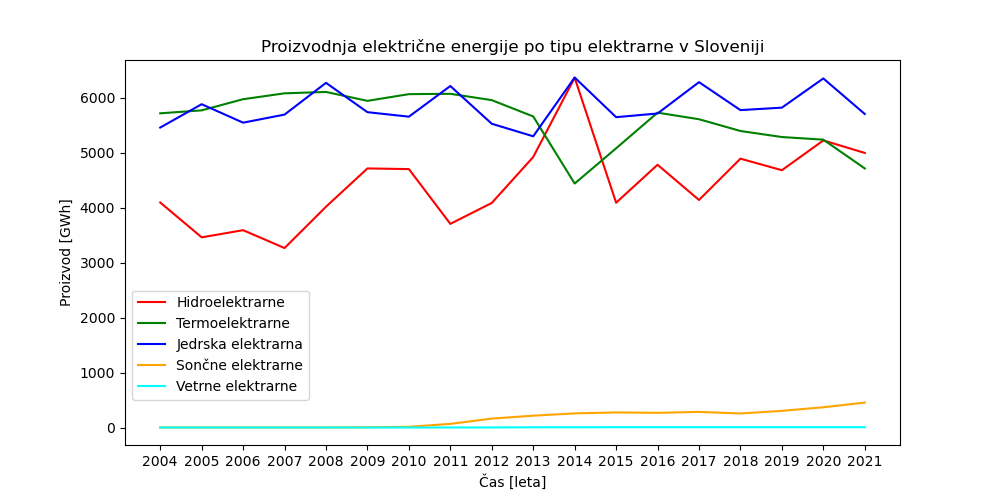
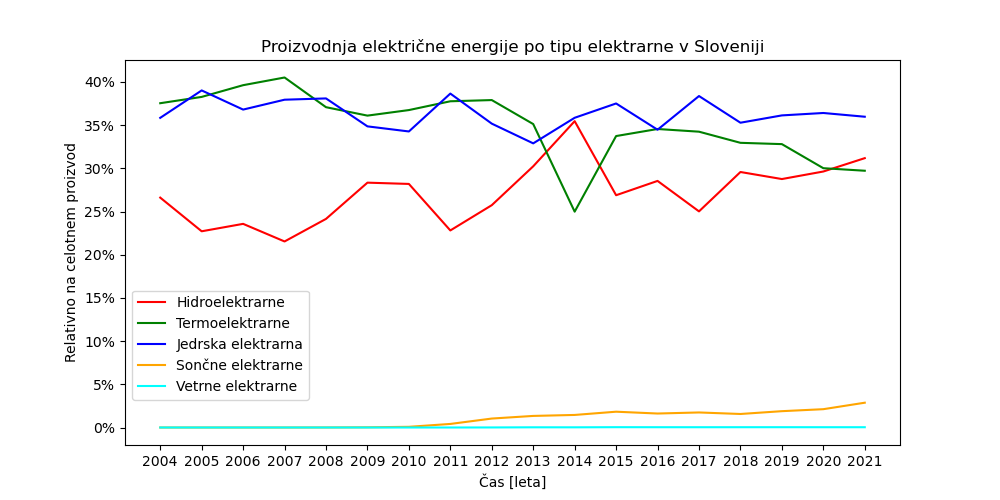
sprememba grafa proizvodnje po tipu elektrarne (relativni prikaz)

diff --git a/py/proizvodnja_elektrike_po_tipu_elektrarne.py b/py/proizvodnja_elektrike_po_tipu_elektrarne.py
@@ -1,4 +1,5 @@
 import matplotlib.pyplot as plt
+import matplotlib.ticker as mtick
 import numpy as np
 import csv
 
@@ -13,11 +14,17 @@ data = np.delete(data, 1, axis=0)
 
 
 # ---------- PREDPROCESIRANJE ----------
-values = []
+proizvodi_po_tipu = [[float(n) if n != '-' else 0 for n in row[2:]] for row in data]
+skupni_proizvod_po_letih = np.sum(proizvodi_po_tipu, axis=0)
 
-# pretvori v števila
-for row in data:
-    values.append([float(n) if n != '-' else 0 for n in row[2:]])
+relativni_proizvodi = []
+for i, proizvodi in enumerate(proizvodi_po_tipu):
+    relativni_proizvodi.append([gwh / skupni_proizvod_po_letih[i] for gwh in proizvodi])
+
+# normaliziraj
+normalize = [2 - n for n in np.sum(relativni_proizvodi, axis=0)]
+for i, proizvodi in enumerate(relativni_proizvodi):
+    relativni_proizvodi[i] = np.multiply(relativni_proizvodi[i], normalize)
 
 
 # ---------- IZPIS PDOATKOV ----------
@@ -25,11 +32,23 @@ years = [str(year) for year in range(2004, 2022)]
 colors = ['red', 'green', 'blue', 'orange', 'cyan']
 names = ['Hidroelektrarne', 'Termoelektrarne', 'Jedrska elektrarna', 'Sončne elektrarne', 'Vetrne elektrarne']
 
-fig, ax = plt.subplots(figsize=(10, 5))
-for i, value in enumerate(values):
+# prikaz absolutnih podatkov
+_, ax = plt.subplots(figsize=(10, 5))
+for i, value in enumerate(proizvodi_po_tipu):
     ax.plot(years, value, color=colors[i], label='{}'.format(names[i]))
 plt.xlabel('Čas [leta]')
 plt.ylabel('Proizvod [GWh]')
+plt.title('Proizvodnja električne energije po tipu elektrarne v Sloveniji')
+plt.legend(loc='lower left', bbox_to_anchor=(0, 0.1, 1, 0.1))
+plt.show()
+
+# prikaz relativnih podatkov
+_, ax = plt.subplots(figsize=(10, 5))
+for i, value in enumerate(relativni_proizvodi):
+    ax.plot(years, value, color=colors[i], label='{}'.format(names[i]))
+ax.yaxis.set_major_formatter(mtick.PercentFormatter(1, decimals=0))
+plt.xlabel('Čas [leta]')
+plt.ylabel('Relativno na celotnem proizvod')
 plt.title('Proizvodnja električne energije po tipu elektrarne v Sloveniji')
 plt.legend(loc='lower left', bbox_to_anchor=(0, 0.1, 1, 0.1))
 plt.show()
